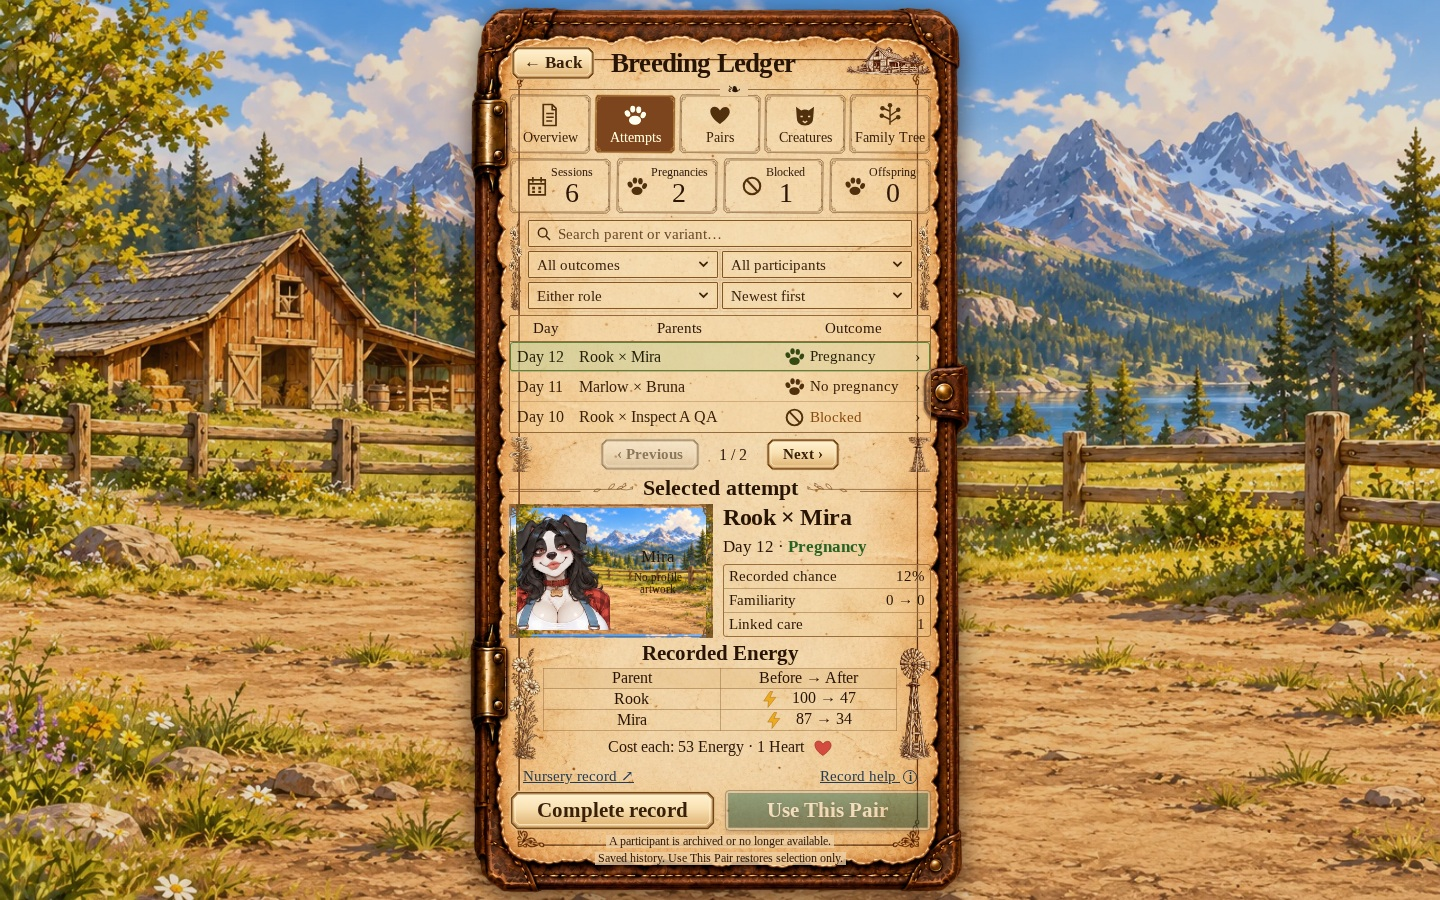
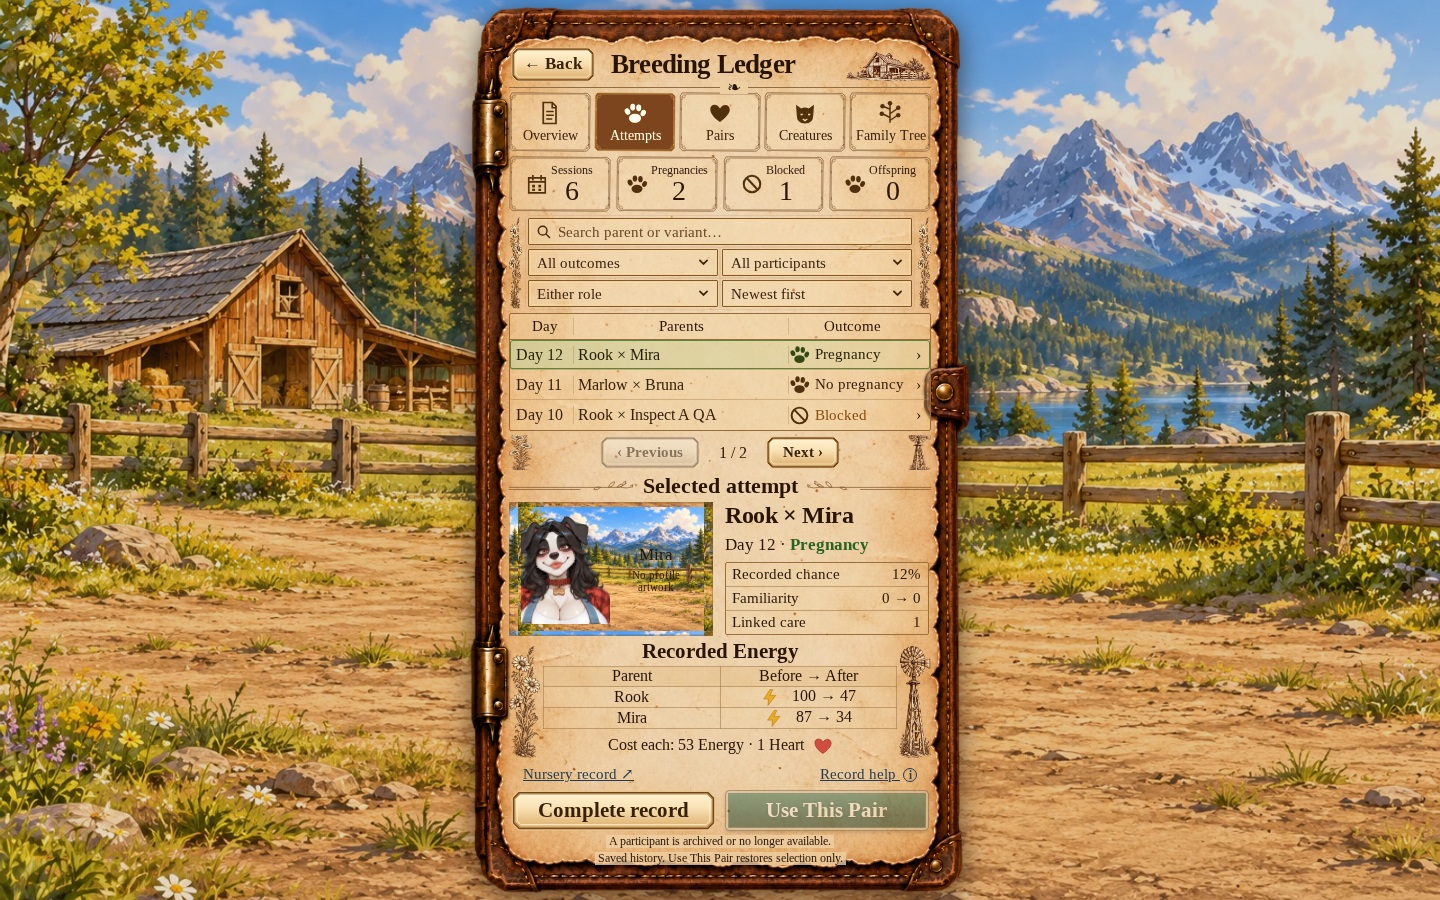
Keep Ledger B controls and records inside their physical frames

Changed region(s): [[0.3438, 0.0311, 0.6562, 0.9956], [0.4375, 0.9644, 0.4688, 0.9956]]

diff --git a/src/features/breeding-records/BreedingLedgerBook.module.css b/src/features/breeding-records/BreedingLedgerBook.module.css
@@ -51,3 +51,21 @@
 @media(min-width:701px) and (min-height:780px){.book{gap:4px}.browse{gap:4px}.selected{gap:4px}.shell .tabs button{min-height:48px}.counts>div{min-height:45px}.identity{min-height:134px;max-height:150px;grid-template-columns:1fr 1.02fr}.summary dl>div{padding:3px 5px}.summary h3{font-size:24px}.shell .row{min-height:30px}.counts strong{font-size:28px}.energy h3{font-size:21px}.energy table{font-size:16px}}
 @media(max-width:700px){.filters input{padding-left:25px;background-size:14px 14px;background-position:6px center}.filters select{padding-right:20px;background-position:right 4px center;background-size:12px 10px}.selected>h2:before,.selected>h2:after{height:14px;background-size:100% 14px}}
 .book{background-image:url('/images/ui/breeding-ledger-journal-b/fidelity-v3/folio.webp')}
+/* Physical panel insets: artwork, text and controls remain inside their own frame. */
+.book{position:relative}.identity{grid-template-columns:minmax(0,1fr) minmax(0,1.02fr);gap:10px}.identity .scene{border-width:9px;border-image-width:9px;padding:3px;isolation:isolate}.scene .profile{max-width:100%;height:100%;overflow:hidden;contain:paint}.summary{width:100%;max-width:100%;padding:0 2px}.summary dl{width:100%;max-width:100%;margin:0;border-radius:2px}.summary dl>div{display:grid;grid-template-columns:minmax(0,1fr) max-content;gap:6px;padding:3px 6px}.summary dt{overflow-wrap:anywhere}.summary dd{margin:0;padding:0 1px;text-align:right}.summary h3,.summary p{max-width:100%;overflow-wrap:anywhere}.footer{padding:0 2px}.actions button{padding-left:10px;padding-right:10px}.shell .tabs button{padding-left:2px;padding-right:2px}.tabs button span{max-width:100%}.tableHeader{grid-template-columns:58px minmax(0,1fr) 127px 8px;padding-left:5px;padding-right:5px}.tableHeader>span:not(:last-child),.shell .row[data-attempt=true]>:nth-child(-n+2){border-right:1px solid #9e774b55}.shell .row[data-attempt=true]>strong{padding-left:4px;padding-right:4px}.shell .row[data-attempt=true]{grid-template-columns:58px minmax(0,1fr) 127px 8px}
+@media(max-width:700px){.identity{gap:7px}.identity .scene{border-width:7px;border-image-width:7px;padding:2px}.summary{padding:0 1px}.summary dl>div{padding:3px 4px;gap:4px}.tableHeader,.shell .row[data-attempt=true]{grid-template-columns:42px minmax(0,1fr) 98px 7px}.actions button{padding-left:5px;padding-right:5px}.shell .tabs button{font-size:10px}}
+@media(max-height:600px){.summary dl>div{padding:2px 4px}.identity .scene{border-width:6px;border-image-width:6px;padding:2px}}
+@media(min-width:701px) and (max-height:500px){.tableHeader,.shell .row[data-attempt=true]{grid-template-columns:43px minmax(0,1fr) 98px 7px}}
+.book{background-image:url('/images/ui/breeding-ledger-journal-b/fidelity-v4/folio.webp')}
+.header:before{max-height:calc(100% - 8px);bottom:4px}
+@media(max-width:700px){.header{height:39px;padding-bottom:6px}}
+@media(max-height:600px){.header{height:34px;padding-bottom:3px}.header button{font-size:12px;padding-top:2px;padding-bottom:2px}}
+.header{height:42px;min-height:42px;padding-bottom:4px}
+@media(max-width:700px){.header{height:39px;min-height:39px;padding-bottom:4px}}
+@media(max-height:600px){.header{height:34px;min-height:34px;padding-bottom:3px}}
+@media(max-height:600px){.shell[data-long=true] .identity{height:120px;min-height:118px;max-height:124px}.shell[data-long=true] .summary h3{font-size:14px;line-height:1.06}.shell[data-long=true] .summary p{font-size:12px}.shell[data-long=true] .summary dl{font-size:11px}.shell[data-long=true] .summary{gap:3px}.shell[data-long=true] .summary dl>div{padding:2px 3px}.shell[data-long=true] .energy table{font-size:12px}}
+@media(max-width:380px){.counts>div{position:relative;display:block;min-height:52px;padding:2px 0}.counts>div>.icon{position:absolute;left:8px;bottom:8px;width:14px;height:14px}.counts span{display:block;width:100%;font-size:10px;white-space:nowrap;text-align:center}.counts strong{margin-top:2px;font-size:22px;line-height:1.05}}
+@media(max-height:600px){.shell[data-long=true] .identity{height:124px;min-height:124px;max-height:124px}}
+.metrics>div{min-width:0}.metrics dt,.metrics dd{max-width:100%;overflow-wrap:anywhere}.comparison{table-layout:fixed}
+.tableHeader,.shell .row[data-attempt=true]{column-gap:0;padding-left:6px;padding-right:6px}
+@media(max-width:700px){.tableHeader,.shell .row[data-attempt=true]{padding-left:5px;padding-right:5px}}

diff --git a/AGENTS.md b/AGENTS.md
@@ -215,3 +215,5 @@ The user selected B and requested close concept fidelity. Preserve the tall leat
 Ledger B second fidelity pass: preserve fidelity-v2's500px desktop folio, stronger dark type, irregular etched tab/count/picture-frame surfaces and detailed generated sepia daisy/windmill art. Replace neither the RGBA ink artwork with the old sparse stick drawings nor canonical creatures with illustrative concept cast. Keep margin art inside dedicated gutters, retain native controls and actual history values, and recheck all primary/focus views after typography changes.
 
 Ledger B third fidelity pass: use fidelity-v3's aged amber folio and translucent paper tabs/counts, regular tab/count typography, stronger engraved illustration corners, botanical heading rules and search/dropdown symbols. This refines v2, while reusing its detailed sepia margin art and canonical close profile sources. Keep UI text live and primary views inside the viewport; verify screenshot geometry after spacing/font changes.
+
+Ledger B containment follow-up: use fidelity-v4's folio without the baked inner rectangle that crossed live controls. Preserve physical picture-frame insets, clipped scenic profile buttons with complete-figure view, aligned table columns and summary grids. QA must check parent-frame bounds and actual text ranges as well as viewport/sibling bounds, including short long-name views. Do not hide text or controls to make checks pass.

diff --git a/docs/BREEDING_LEDGER_JOURNAL_B_RUNTIME.md b/docs/BREEDING_LEDGER_JOURNAL_B_RUNTIME.md
@@ -11,3 +11,6 @@ User again compared actual screen against B. Fidelity-v2 now uses a500px desktop
 
 ## Third fidelity pass
 User compared the next actual capture with B again. Fidelity-v3 adds visibly aged/flecked amber parchment, transparent paper control faces, regular tab/count lettering, visible engraved scene corners, botanical selected-record rules and matching search/dropdown symbols. Tall desktop shifts a little space into the selected illustration and recorded values while preserving the grouped filters/history/summary/actions composition. Complete canonical figures remain reachable by tapping the close scene. Native assets, generated master, exact prompt and hashes are retained.
+
+## Fourth pass: physical containment
+The user explicitly requested no content extending outside borders or lines. Fidelity-v4 removes the misleading painted inset rectangle, while retaining aged paper/leather. Native header/button heights, illustration frame insets, summary numeric columns and table separators now describe the actual content area. QA checks direct children against physical parent frames and direct text ranges against controls/cells, including real long-name short views; intentional scenic crops remain clipped and open full canonical figures on tap.

diff --git a/public/images/ui/breeding-ledger-journal-b/fidelity-v4/README.md b/public/images/ui/breeding-ledger-journal-b/fidelity-v4/README.md
@@ -1,0 +1,7 @@
+# B containment correction
+
+The user explicitly requested that all content remain inside borders/lines. The old folio had a baked inner rectangle that crossed live controls despite their valid layout boxes. Built-in imagegen removes only that rectangle and its four inner corner flourishes; the approved leather silhouette, aged paper, hinges/clasp and transparency remain. Exact prompt and untouched master are retained. WebP preserves alpha, trims outer padding, resizes to1600px tall and uses quality94.
+
+Runtime keeps native control/table/picture borders aligned with actual content: frame widths equal physical border insets, scenic art paints only inside clipped profile buttons, summary grids and numeric columns stay within their panel, table columns align, and headers account for actual control height. Short long-name views use compact text/scenery with complete names and costs retained. No gameplay changes.
+
+The browser audit now checks parent frames and actual text ranges in addition to viewport bounds and sibling overlap. No overflow is hidden to conceal text or controls; the approved scenic close crop has an explicit complete-figure view.
